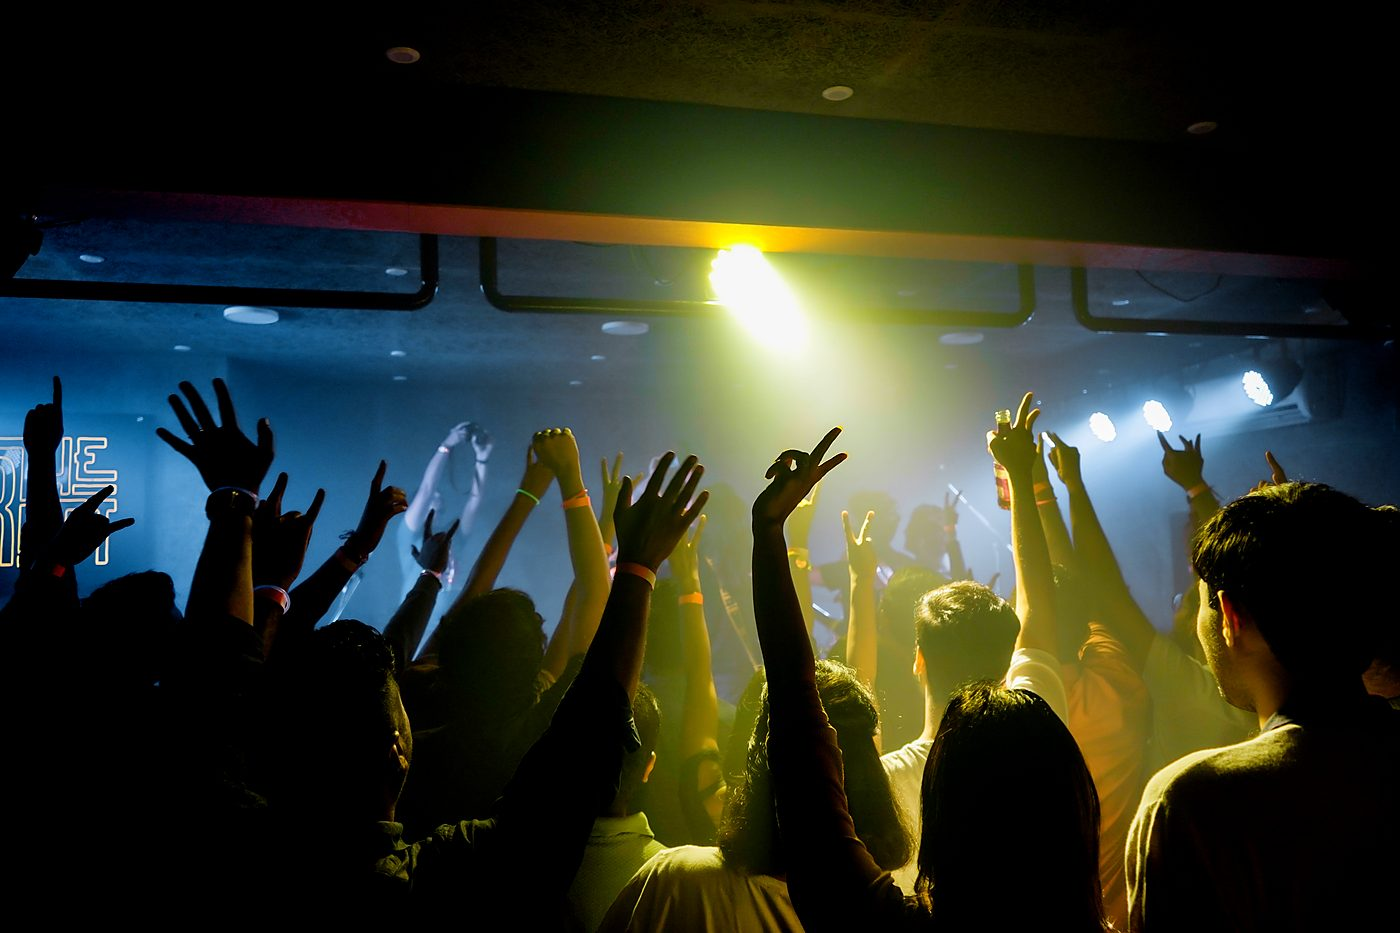
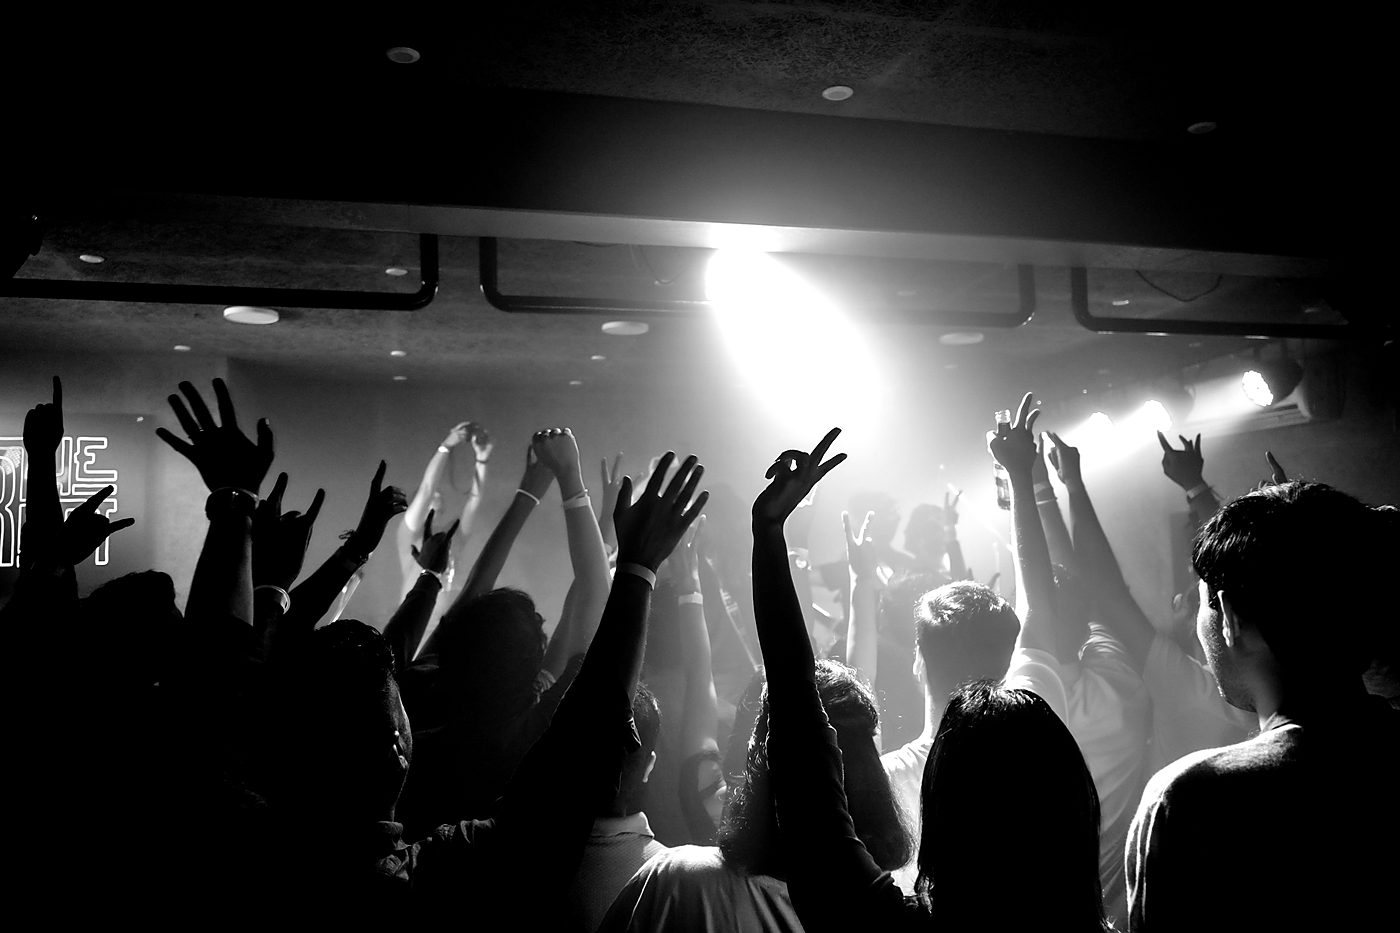
Grade the photos to black and white, and fix the portrait crop
Two colour grades were tried and neither held up. Desaturating toward
the palette drained what made the photos good; crushing blacks and
pushing saturation kept the drama but stayed garish. Monochrome solves
what both were failing at: five nights under five lighting rigs need
no reconciling once there are no colours left to clash. It is also the
classic language of gig photography, which is what these silhouettes
against stage lights want, and it leaves the brand's red as the only
colour on the page.

Separately, the portrait shot was framed badly. It was cropped to a
band from 0.34-0.90 of the frame, which on standing figures is the
waist down, and the hero then cover-cropped it further from the
centre, cutting the heads off entirely. It now uses 0.28-0.665, which
holds both singers, their faces and the backlight, and is baked close
to 16:9 so the hero barely crops it again. Its focal point moves to
centre to match.

The CSS overlay follows the files as before: saturate() has nothing
left to act on, and the palette wash drops to a whisper so the greys
tie to the page without becoming a duotone.

diff --git a/site/assets/js/content.js b/site/assets/js/content.js
@@ -39,10 +39,10 @@ export const site = {
       { label: "Watch us play", href: "#videos", style: "primary" },
       { label: "Book a show",   href: "#book",   style: "ghost" },
     ],
-    /* Real photos, graded with tools/grade-photos.py: blacks crushed, colour
-       pushed. Five nights under blue, purple, red, yellow and magenta light
-       hang together because they are all dark and saturated, not because
-       their colours were flattened to match.
+    /* Real photos, graded with tools/grade-photos.py to high-contrast black
+       and white. Five nights under five different lighting rigs need no
+       reconciling once there are no colours left to clash, and the brand's
+       red is then the only colour on the page.
 
        `srcset` lets the browser pick a size: phones pull the 1400px file,
        laptops the 2400px one. `focus` is the object-position, i.e. the part
@@ -65,7 +65,7 @@ export const site = {
         srcset: "assets/img/live-02-1400.jpg 1400w, assets/img/live-02-2400.jpg 2400w, assets/img/live-02-3200.jpg 3200w",
         alt: "Two singers at their mics, lit from behind",
         caption: "Two mics, one spotlight",
-        focus: "68% 50%",
+        focus: "50% 45%",
       },
       {
         src: "assets/img/live-03-2400.jpg",

diff --git a/site/assets/css/tokens.css b/site/assets/css/tokens.css
@@ -122,13 +122,15 @@
   /* --- photography ----------------------------------------------------- */
   /* Gig photos arrive dark, noisy and inconsistent. These lift and unify
      them without anyone having to edit a single file. */
-  /* The grade is baked into the files by tools/grade-photos.py, so these are
-     for fine-tuning on top. Keep brightness at 1: lifting it here would undo
-     the crushed blacks the photos were graded for. The palette wash is kept
-     light so each night keeps its own colour, which is the whole point. */
-  --photo-filter:   saturate(1.02) contrast(1.02);
+  /* The photos are black and white, graded by tools/grade-photos.py. These
+     tune what sits on top. saturate() has nothing to act on now, so contrast
+     is the only useful dial here; keep brightness at 1 or it undoes the
+     crushed blacks. The wash is a whisper of the palette over the greys —
+     enough to tie them to the page, not enough to be a duotone. Set
+     --grade-strength to 0 for pure neutral black and white. */
+  --photo-filter:   contrast(1.03);
   --grade-blend:    soft-light;
-  --grade-strength: 0.22;
+  --grade-strength: 0.16;
   --drift-duration: 22s;
 
   /* The logo keeps its own ink; this is what lifts it off a dark page.

diff --git a/tools/grade-photos.py b/tools/grade-photos.py
@@ -2,10 +2,11 @@
 """Grade and resize live photos for the hero carousel.
 
 The photos come off several nights, several phones and several lighting rigs.
-Rather than repaint their colours to match — which drains exactly what makes a
-gig photo good — this crushes the blacks and pushes the colour, so every frame
-becomes dark and saturated. The set is unified by tonality while each night
-keeps its own light. It then writes the responsive sizes `srcset` asks for.
+This converts them to high-contrast black and white — the classic language of
+gig photography, and what silhouettes against stage lights are made for. It
+unifies the set for free, because there are no colours left to clash, and it
+leaves the brand's signal red as the only colour on the page. It then writes
+the responsive sizes `srcset` asks for.
 
 Usage:
     python3 tools/grade-photos.py live-06 ~/Downloads/new-gig.JPG
@@ -23,7 +24,7 @@ import os
 import sys
 
 try:
-    from PIL import Image, ImageEnhance, ImageFilter, ImageDraw
+    from PIL import Image, ImageOps, ImageEnhance, ImageFilter, ImageDraw
 except ImportError:
     sys.exit("Pillow is not installed. See the docstring at the top of this file.")
 
@@ -32,13 +33,12 @@ OUT_DIR = os.path.join(os.path.dirname(__file__), "..", "site", "assets", "img")
 # width -> jpeg quality. Bigger files trade bits per pixel for pixels.
 SIZES = {1400: 82, 2400: 82, 3200: 76}
 
-# The grade, in one place. Raise SATURATION for more colour, BLACK_POINT for
-# deeper shadows. Both are also tunable live from tokens.css (--photo-filter).
-BLACK_POINT = 44     # how far the shadows are pulled down, 0-255
-GAMMA       = 1.02
-SATURATION  = 1.42
-CONTRAST    = 1.20
+# The grade, in one place.
+BLACK_POINT = 26     # how far the shadows are pulled down, 0-255
+GAMMA       = 1.06   # >1 darkens the midtones
+CONTRAST    = 1.22
 VIGNETTE    = 0.30
+AUTO_CUTOFF = (0.5, 1)   # percent clipped off each end before the tone curve
 
 
 def vignette(im, strength=VIGNETTE):
@@ -64,10 +64,16 @@ def deepen(im, black=BLACK_POINT, gamma=GAMMA):
 
 
 def grade(im):
-    im = deepen(im)
-    im = ImageEnhance.Color(im).enhance(SATURATION)
-    im = ImageEnhance.Contrast(im).enhance(CONTRAST)
-    return vignette(im)
+    """Colour -> high-contrast monochrome.
+
+    autocontrast is safe here in a way it was not for the colour grades: it is
+    spreading the tonal range before the curve pulls the shadows back down,
+    rather than being the last word on exposure.
+    """
+    grey = ImageOps.autocontrast(im.convert("L"), cutoff=AUTO_CUTOFF)
+    grey = deepen(grey.convert("RGB"))
+    grey = ImageEnhance.Contrast(grey).enhance(CONTRAST)
+    return vignette(grey)
 
 
 def main():

diff --git a/site/README.md b/site/README.md
@@ -71,13 +71,18 @@ page without touching any component.
 originals. Each exists at several widths and the page picks one via `srcset`:
 a phone pulls the 1400px file, a retina laptop the 3200px one.
 
-**The grade** crushes the blacks and pushes the colour, so every frame is dark
-and saturated. The set is unified by tonality while each night keeps its own
-light — the blue room stays blue, Hard Rock stays magenta. An earlier attempt
-unified by *hue* instead, desaturating everything toward the palette, and it
-drained exactly what made the photos good: a deep blue room came out grey.
-Worth remembering before reaching for `autocontrast`, which lifts the black
-point and is the opposite of what a gig photo wants.
+**The grade** is high-contrast black and white — the classic language of gig
+photography, and what silhouettes against stage lights are made for. It solves
+the problem the colour grades kept failing at: five nights under blue, purple,
+red, yellow and magenta lighting need no reconciling once there are no colours
+left to clash. It also leaves the brand's signal red as the only colour
+anywhere on the page.
+
+Two colour grades were tried and dropped first. One desaturated everything
+toward the palette and ran `autocontrast` over it, which *lifts* the black
+point — a deep blue room came out milky grey. The other crushed the blacks and
+pushed saturation hard, which kept the drama but stayed garish. Worth knowing
+before reaching for either again.
 
 ### Adding a photo
 
@@ -90,8 +95,12 @@ and prints the block to paste into `hero.slides` in `content.js`. For a
 **portrait** original, pass a landscape crop rather than letting CSS do it:
 
 ```bash
-python3 tools/grade-photos.py live-06 ~/Downloads/tall.JPG --crop 0,0.34,1,0.90
+python3 tools/grade-photos.py live-06 ~/Downloads/tall.JPG --crop 0,0.28,1,0.665
 ```
+
+Pick the band by eye first. The crop that is obviously "the middle" usually is
+not: on a standing figure the middle of the frame is the waist, so a centred
+crop gives you torsos and no faces. Aim high.
 
 ### What makes a good source
 
@@ -117,13 +126,13 @@ Three tokens in `tokens.css` grade every photo at once:
 
 | Token              | Does                                                    |
 |--------------------|---------------------------------------------------------|
-| `--photo-filter`   | Fine-tuning on top of the baked grade. Leave brightness alone — lifting it undoes the crushed blacks. |
-| `--grade-strength` | The palette wash. Kept low (0.22) so each night keeps its colour. `0` = off. |
+| `--photo-filter`   | Fine-tuning on top of the baked grade. `saturate()` has nothing to act on now; leave brightness at 1 or it undoes the crushed blacks. |
+| `--grade-strength` | A whisper of the palette over the greys, tying them to the page. `0` = pure neutral black and white. |
 | `--drift-duration` | Speed of the slow zoom. Longer is calmer.                |
 
 The grade itself lives in `tools/grade-photos.py` as four constants
-(`BLACK_POINT`, `SATURATION`, `CONTRAST`, `VIGNETTE`). Change them and re-run
-the script over the originals to restyle the whole set.
+(`BLACK_POINT`, `GAMMA`, `CONTRAST`, `VIGNETTE`). Change them and re-run the
+script over the originals to restyle the whole set.
 
 ## Themes
 
